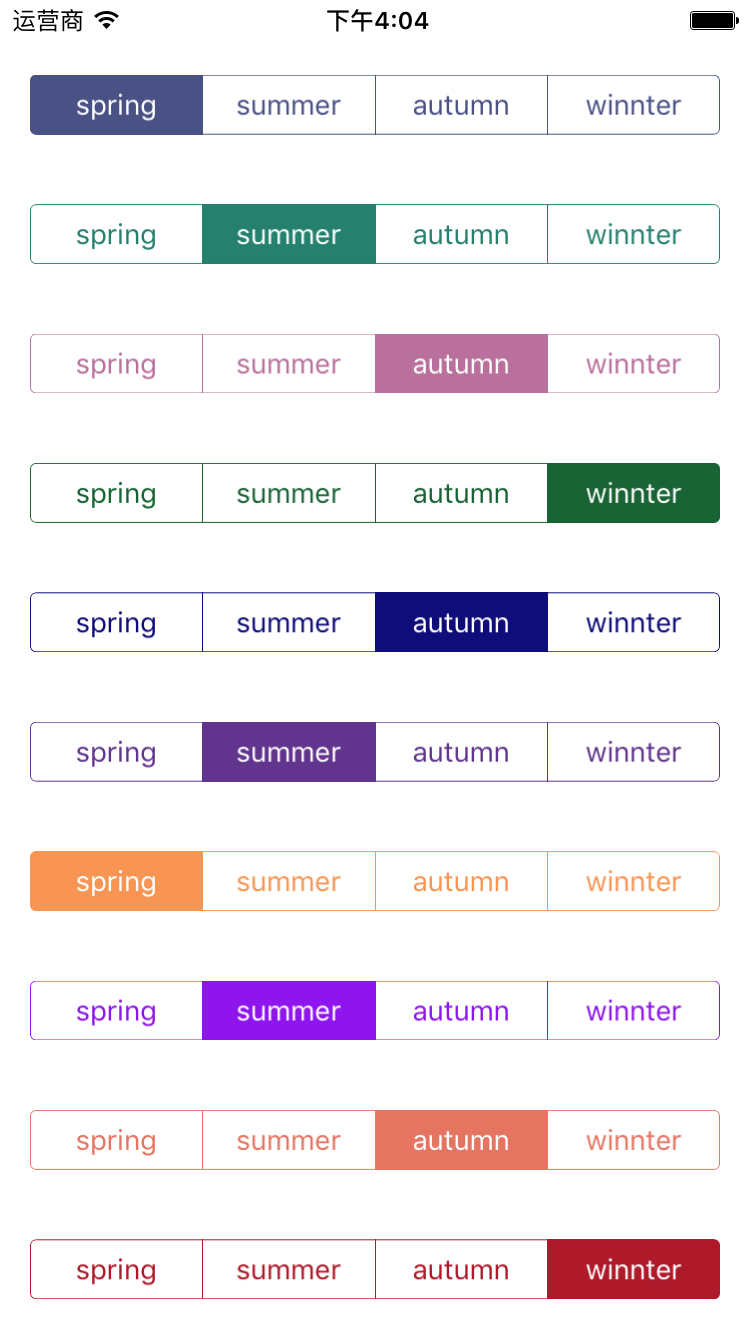
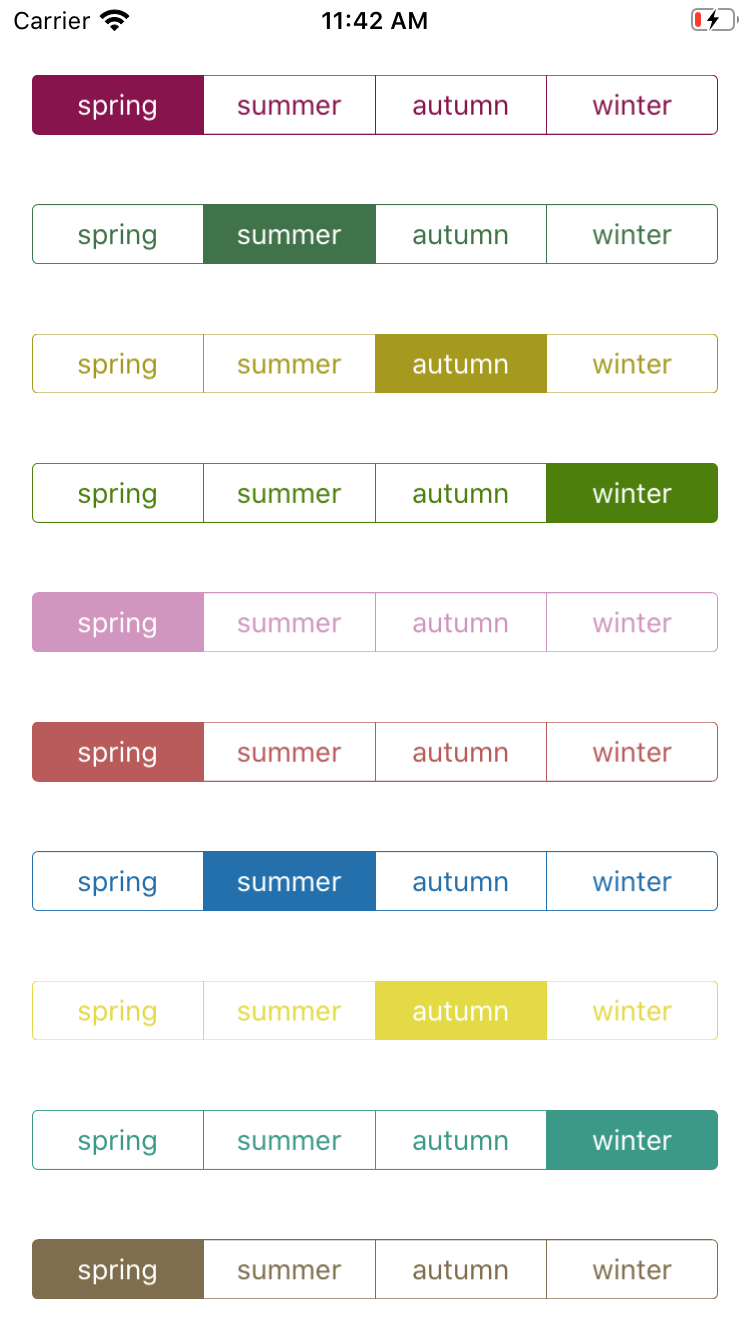
Update test code and sample pic.

diff --git a/RFSegmentView/RFViewController.m b/RFSegmentView/RFViewController.m
@@ -39,7 +39,7 @@
     
     for (int i = 0; i < numbersOfView; i++) {
         RFSegmentView *segmentView = [[RFSegmentView alloc] initWithFrame:CGRectMake(initX, initY, viewWidth, viewHeight)
-																   titles:@[@"spring",@"summer",@"autumn",@"winnter"]];
+																   titles:@[@"spring",@"summer",@"autumn",@"winter"]];
         
         segmentView.tintColor       = [self getRandomColor];
         //segmentView.delegate      = self;
@@ -48,7 +48,7 @@
         segmentView.leftRightMargin = 16.0;
 //        segmentView.cornerRadius    = 5.f;
         segmentView.handlder = ^ (RFSegmentView * __nullable view, NSUInteger selectedIndex) {
-            NSLog(@"view:%@ selectedIndex: %ld",view,selectedIndex);
+			NSLog(@"view:%@ selectedIndex: %lu",view,(unsigned long)selectedIndex);
         };
         
         [self.view addSubview:segmentView];
